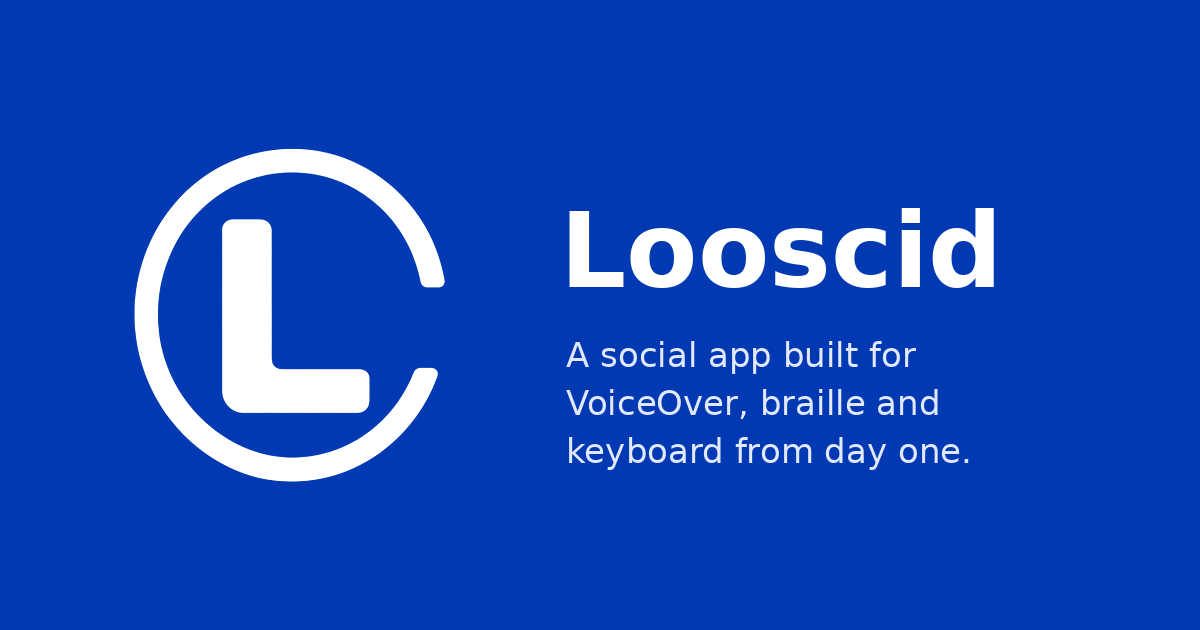
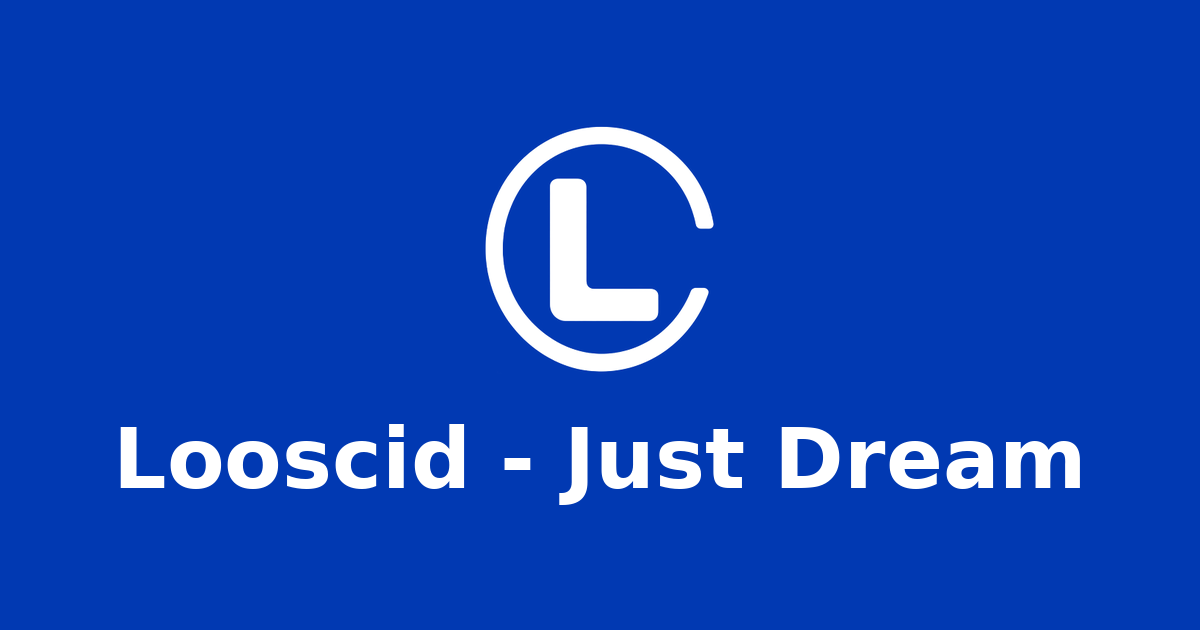
Link card: "Looscid - Just Dream" on X - Carter: "can you get the link to make X Say Looscid - Just dream". - og:image:alt and twitter:image:alt are now "Looscid - Just Dream" on the home page, 404 page and changelog page (that alt is what VoiceOver reads on the X card). - assets/looscid-og.png redr

Changed region(s): [[0.0925, 0.181, 0.925, 0.8143]]

diff --git a/app/index.html b/app/index.html
@@ -13,18 +13,18 @@
 <meta property="og:title" content="Looscid - Just Dream">
 <meta property="og:description" content="Just Dream. A social app built for VoiceOver, braille and keyboard from day one. Open source, with the customization and freedom other apps took away.">
 <meta property="og:url" content="https://looscid.github.io/Looscid/">
-<meta property="og:image" content="https://looscid.github.io/Looscid/assets/looscid-og.png">
-<meta property="og:image:secure_url" content="https://looscid.github.io/Looscid/assets/looscid-og.png">
+<meta property="og:image" content="https://looscid.github.io/Looscid/assets/looscid-og.png?v=193b">
+<meta property="og:image:secure_url" content="https://looscid.github.io/Looscid/assets/looscid-og.png?v=193b">
 <meta property="og:image:type" content="image/png">
 <meta property="og:image:width" content="1200">
 <meta property="og:image:height" content="630">
-<meta property="og:image:alt" content="The Looscid logo and the words: Looscid, a social app built for VoiceOver, braille and keyboard from day one.">
+<meta property="og:image:alt" content="Looscid - Just Dream">
 <meta name="twitter:card" content="summary_large_image">
 <meta name="twitter:site" content="@Looscid">
 <meta name="twitter:title" content="Looscid - Just Dream">
 <meta name="twitter:description" content="Just Dream. A social app built for VoiceOver, braille and keyboard from day one. Open source, with the customization and freedom other apps took away.">
-<meta name="twitter:image" content="https://looscid.github.io/Looscid/assets/looscid-og.png">
-<meta name="twitter:image:alt" content="The Looscid logo and the words: Looscid, a social app built for VoiceOver, braille and keyboard from day one.">
+<meta name="twitter:image" content="https://looscid.github.io/Looscid/assets/looscid-og.png?v=193b">
+<meta name="twitter:image:alt" content="Looscid - Just Dream">
 <link rel="icon" type="image/png" sizes="32x32" href="https://looscid.github.io/Looscid/assets/icons/favicon-32.png">
 <link rel="apple-touch-icon" href="https://looscid.github.io/Looscid/assets/icons/apple-touch-icon.png">
 <script>

diff --git a/app/changelog/index.html b/app/changelog/index.html
@@ -11,17 +11,17 @@
 <meta property="og:title" content="Looscid changelog">
 <meta property="og:description" content="Every Looscid update, from the first listed version to the newest, with what changed in each.">
 <meta property="og:url" content="https://looscid.github.io/Looscid/changelog/">
-<meta property="og:image" content="https://looscid.github.io/Looscid/assets/looscid-og.png">
+<meta property="og:image" content="https://looscid.github.io/Looscid/assets/looscid-og.png?v=193b">
 <meta property="og:image:type" content="image/png">
 <meta property="og:image:width" content="1200">
 <meta property="og:image:height" content="630">
-<meta property="og:image:alt" content="The Looscid logo and the words: Looscid, a social app built for VoiceOver, braille and keyboard from day one.">
+<meta property="og:image:alt" content="Looscid - Just Dream">
 <meta name="twitter:card" content="summary_large_image">
 <meta name="twitter:site" content="@Looscid">
 <meta name="twitter:title" content="Looscid changelog">
 <meta name="twitter:description" content="Every Looscid update, from the first listed version to the newest, with what changed in each.">
-<meta name="twitter:image" content="https://looscid.github.io/Looscid/assets/looscid-og.png">
-<meta name="twitter:image:alt" content="The Looscid logo and the words: Looscid, a social app built for VoiceOver, braille and keyboard from day one.">
+<meta name="twitter:image" content="https://looscid.github.io/Looscid/assets/looscid-og.png?v=193b">
+<meta name="twitter:image:alt" content="Looscid - Just Dream">
 <link rel="icon" type="image/png" sizes="32x32" href="https://looscid.github.io/Looscid/assets/icons/favicon-32.png">
 <link rel="apple-touch-icon" href="https://looscid.github.io/Looscid/assets/icons/apple-touch-icon.png">
 <meta http-equiv="Content-Security-Policy" content="default-src 'self'; script-src 'self'; style-src 'self' 'unsafe-inline'; img-src 'self' https:; connect-src 'self' https://raw.githubusercontent.com; object-src 'none'; base-uri 'self'; form-action 'self'"/>

diff --git a/app/404.html b/app/404.html
@@ -11,16 +11,16 @@
 <meta property="og:title" content="Looscid - Just Dream">
 <meta property="og:description" content="Just Dream. A social app built for VoiceOver, braille and keyboard from day one. Open source, with the customization and freedom other apps took away.">
 <meta property="og:url" content="https://looscid.github.io/Looscid/">
-<meta property="og:image" content="https://looscid.github.io/Looscid/assets/looscid-og.png">
+<meta property="og:image" content="https://looscid.github.io/Looscid/assets/looscid-og.png?v=193b">
 <meta property="og:image:width" content="1200">
 <meta property="og:image:height" content="630">
-<meta property="og:image:alt" content="The Looscid logo and the words: Looscid, a social app built for VoiceOver, braille and keyboard from day one.">
+<meta property="og:image:alt" content="Looscid - Just Dream">
 <meta name="twitter:card" content="summary_large_image">
 <meta name="twitter:site" content="@Looscid">
 <meta name="twitter:title" content="Looscid - Just Dream">
 <meta name="twitter:description" content="Just Dream. A social app built for VoiceOver, braille and keyboard from day one. Open source, with the customization and freedom other apps took away.">
-<meta name="twitter:image" content="https://looscid.github.io/Looscid/assets/looscid-og.png">
-<meta name="twitter:image:alt" content="The Looscid logo and the words: Looscid, a social app built for VoiceOver, braille and keyboard from day one.">
+<meta name="twitter:image" content="https://looscid.github.io/Looscid/assets/looscid-og.png?v=193b">
+<meta name="twitter:image:alt" content="Looscid - Just Dream">
 <script>
 /* Part 40 (#69, 2three1y Oct 11): GitHub Pages has no server routing, so every address under /Looscid/ that isn't a file
    lands here. This sends it straight into the app as ?p=<path>; the app opens that page (any letter case) and puts the
